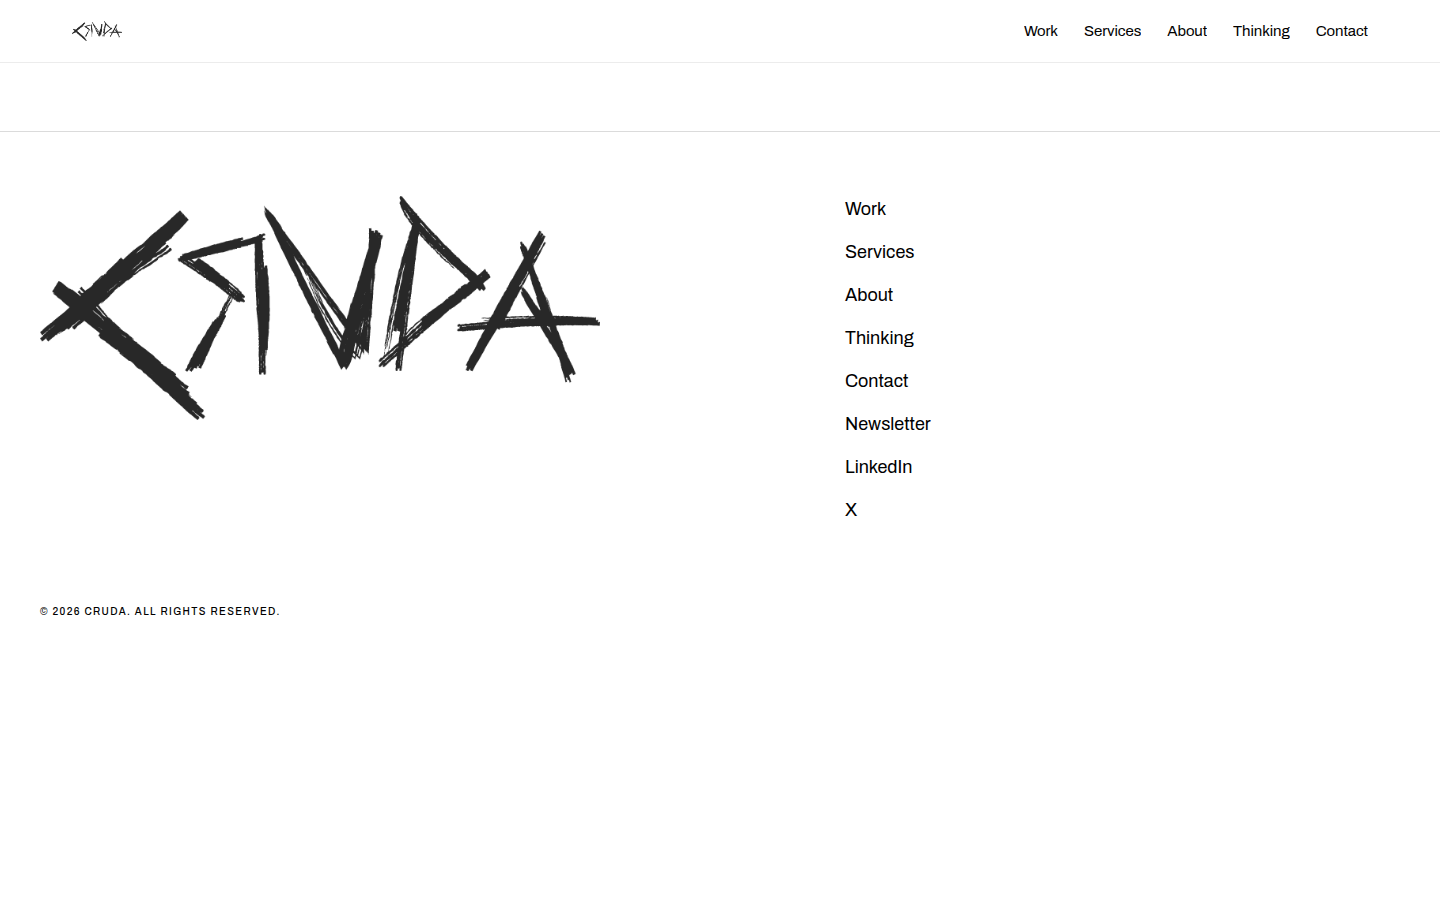
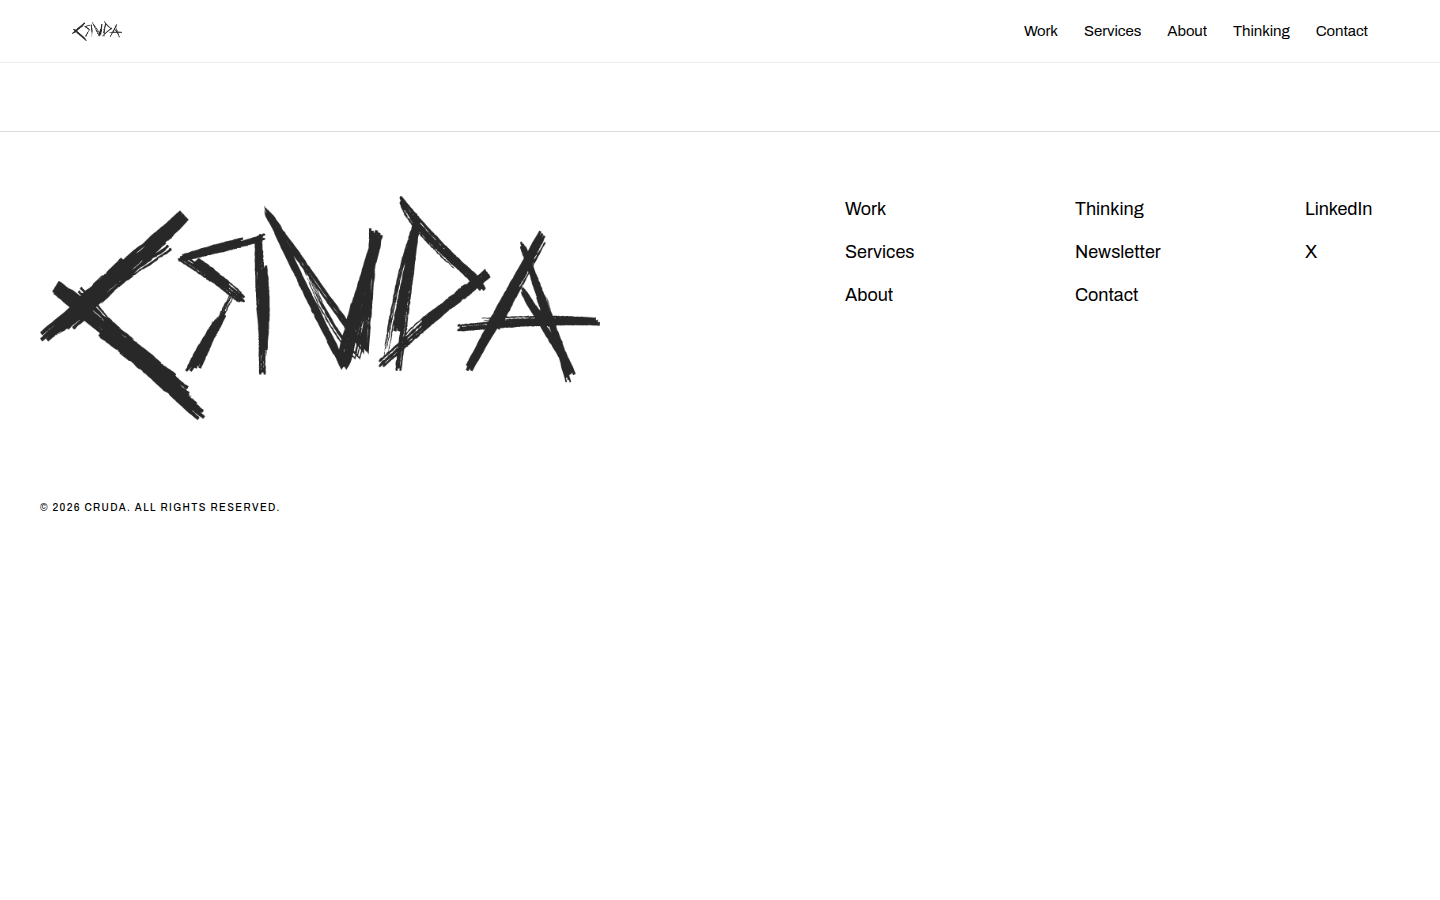
F23-1 v2 · footer 3 cols · nav sin transición · back restore
1 · Footer §2.5 v2
· 1440: logo a la izquierda, 3 columnas alineadas al top:
    Work · Services · About
    Thinking · Newsletter · Contact
    LinkedIn · X
  (SiteFooter.tsx · nav--1/2/3 con grid-row 1 + align-self start;
   wordmark también con grid-row 1.)
· 390: logo arriba, 2 columnas apiladas (Work Thinking / Services
  Newsletter / About Contact), LinkedIn · X en fila abajo, legal.
  Todos con grid-row auto en el @media (max-width: 900px).

2 · Nav sin franja gris
· Sacada la transition 260ms de background/color/border-color en
  .cruda-global-nav.bar (Nav.tsx). El paso paper ↔ dark ahora es
  instantáneo, sin estado intermedio gris. Fran F23.1 v2 §2 nota.
· Capturas nav-top / nav-scrolled en /, /services y
  /work/karen-mannheim, a 1440 y 390: nav paper es paper puro,
  nav dark es --ink puro.

3 · Botón atrás (Playwright test)
· PageShell: bug fix crítico · llamar startViewTransition sobre
  document directamente (no extraer a variable — pierde el `this`
  y tira).
· Restore de scroll con rAF loop que espera a que el documento
  llegue a la altura guardada antes de scrollTo. Cubre tanto
  popstate (client nav) como full-load con navigation.type
  'back_forward' (browser sin bfcache).
· Test Playwright · / → fila 2 SW → click José → goBack →
  captura. Log confirma: 1440 restauró 10562 (target 10561.7),
  390 restauró 9864 (target 9864.1). Sin loader en el back.

Capturas: nav (top + scrolled) × 3 páginas × 2 breakpoints ·
[…]

diff --git a/src/components/PageShell.tsx b/src/components/PageShell.tsx
@@ -87,13 +87,38 @@ export default function PageShell({ children }: { children: React.ReactNode }) {
 
   /* Popstate flag · marcamos el próximo pathname change como back
      button para que el useEffect de pathname restaure el scroll
-     guardado en vez de resetearlo a 0. */
+     guardado en vez de resetearlo a 0. También cubrimos el caso de
+     full-load con navigation.type === 'back_forward' (browser sin
+     bfcache que hace una navegación completa al volver): en ese
+     caso el layout re-monta y no hay popstate para escuchar. */
   useEffect(() => {
     if (typeof window === 'undefined') return
     function onPop() {
       isPop.current = true
     }
     window.addEventListener('popstate', onPop)
+    /* Full-load con back/forward · restauramos scroll de la ruta
+       actual desde sessionStorage, con el mismo rAF loop. */
+    const navEntry = performance.getEntriesByType('navigation')[0] as
+      | (PerformanceNavigationTiming & { type: string })
+      | undefined
+    if (navEntry && navEntry.type === 'back_forward') {
+      const y = getSavedScroll(window.location.pathname)
+      if (typeof y === 'number') {
+        let tries = 0
+        const attempt = () => {
+          if (tries++ > 120) return
+          const maxY =
+            document.documentElement.scrollHeight - window.innerHeight
+          if (maxY >= y) {
+            window.scrollTo(0, y)
+          } else {
+            window.requestAnimationFrame(attempt)
+          }
+        }
+        window.requestAnimationFrame(attempt)
+      }
+    }
     return () => window.removeEventListener('popstate', onPop)
   }, [])
 
@@ -134,10 +159,12 @@ export default function PageShell({ children }: { children: React.ReactNode }) {
            en Next SPA. Lo limpiamos para que RevealScroll re-mida
            en la ruta nueva. */
         delete document.documentElement.dataset.linesReady
-        const startVT = (document as unknown as {
+        /* Llamamos startViewTransition sobre el propio document
+           para preservar el `this`. Extraerla en una variable y
+           llamarla suelta rompe el binding y tira. */
+        const vt = (document as unknown as {
           startViewTransition: StartViewTransitionApi
-        }).startViewTransition
-        const vt = startVT(() => {
+        }).startViewTransition(() => {
           router.push(href)
         })
         if (vt.finished) {
@@ -167,9 +194,24 @@ export default function PageShell({ children }: { children: React.ReactNode }) {
       isPop.current = false
       const y = getSavedScroll(pathname)
       if (typeof y === 'number') {
-        /* Esperamos un tick para dejar que Next termine de pintar +
-           el apilado recalcule antes de restaurar. */
-        window.setTimeout(() => window.scrollTo(0, y), 0)
+        /* Esperamos a que el documento tenga altura suficiente
+           antes de restaurar. El apilado (PlanesStack) hace su
+           cálculo en useEffect al montar; hasta entonces la
+           altura total puede ser menor que la Y guardada. rAF loop
+           con tope ~1s para no colgar si la ruta no llega a esa
+           altura (ej. contenido cambió). */
+        let tries = 0
+        const attempt = () => {
+          if (tries++ > 60) return
+          const maxY =
+            document.documentElement.scrollHeight - window.innerHeight
+          if (maxY >= y) {
+            window.scrollTo(0, y)
+          } else {
+            window.requestAnimationFrame(attempt)
+          }
+        }
+        window.requestAnimationFrame(attempt)
       }
     }
   }, [pathname])

diff --git a/src/components/case-study.css b/src/components/case-study.css
@@ -444,6 +444,8 @@
 }
 .site-footer__wordmark {
   grid-column: 1 / span 6;
+  grid-row: 1;
+  align-self: start;
   color: var(--ink);
   line-height: 0;
 }
@@ -461,15 +463,20 @@
   margin-top: var(--space-5);
   min-height: 96px;                /* Reservado para block 6 (§4.8) */
 }
-/* F23.1 · un solo nav en el footer (§2.5). */
+/* F23.1 v2 · tres columnas en el footer (§2.5).
+   Col 1 (Work · Services · About)      → grid-column 8 / span 2
+   Col 2 (Thinking · Newsletter · …)     → grid-column 10 / span 2
+   Col 3 (LinkedIn · X)                  → grid-column 12 / span 1 */
 .site-footer__nav {
-  grid-column: 8 / span 5;
   display: flex;
   flex-direction: column;
   gap: var(--space-2);
   font-size: var(--text-body);
   align-self: start;
 }
+.site-footer__nav--1 { grid-column: 8 / span 2; grid-row: 1; }
+.site-footer__nav--2 { grid-column: 10 / span 2; grid-row: 1; }
+.site-footer__nav--3 { grid-column: 12 / span 1; grid-row: 1; }
 /* F23.1 · legal en Archivo, token de rótulo del sistema (10px · 500 ·
    .14em · uppercase). Sale IBM Plex Mono. */
 .site-footer__legal {
@@ -494,7 +501,21 @@
   .site-footer__grid { min-height: auto; }
   .site-footer__wordmark { grid-column: 1 / -1; }
   .site-footer__capture-slot { grid-column: 1 / -1; }
-  .site-footer__nav { grid-column: 1 / -1; }
+  /* F23.1 v2 · 390 · stack vertical (§2.5).
+     Row 1 · CRUDA logo, ancho completo.
+     Row 2 · Nav 1 (col 1) + Nav 2 (col 2), en fila.
+     Row 3 · LinkedIn · X en línea.
+     El grid-row: 1 de desktop se sobreescribe a `auto` acá para
+     que cada nav se apile en su propia fila. */
+  .site-footer__wordmark { grid-row: auto; }
+  .site-footer__nav--1 { grid-column: 1 / span 1; grid-row: auto; }
+  .site-footer__nav--2 { grid-column: 2 / span 1; grid-row: auto; }
+  .site-footer__nav--3 {
+    grid-column: 1 / -1;
+    grid-row: auto;
+    flex-direction: row;
+    gap: var(--space-4);
+  }
 }
 
 /* Root anchor (Parte 1.1). All rem-based sizes derive from this. */

diff --git a/src/components/SiteFooter.tsx b/src/components/SiteFooter.tsx
@@ -42,16 +42,23 @@ export default function SiteFooter() {
           </div>
         )}
 
-        {/* F23.1 · un solo orden (§2.5).
-              Work · Services · About · Thinking · Contact · Newsletter · LinkedIn · X
-            "Case studies" desaparece — Work la reemplaza. */}
-        <nav className="site-footer__nav" aria-label="Site">
+        {/* F23.1 v2 · tres columnas en 1440 (§2.5).
+              Col 1 · Work · Services · About
+              Col 2 · Thinking · Newsletter · Contact
+              Col 3 · LinkedIn · X
+            "Case studies" desaparece — Work la reemplaza.
+            En 390 stackean a 2 cols (case-study.css). */}
+        <nav className="site-footer__nav site-footer__nav--1" aria-label="Site">
           <Link href="/#selected-work" className="link">Work</Link>
           <Link href="/services" className="link">Services</Link>
           <Link href="/about" className="link">About</Link>
+        </nav>
+        <nav className="site-footer__nav site-footer__nav--2" aria-label="More">
           <Link href="/thinking" className="link">Thinking</Link>
-          <Link href="/contact" className="link">Contact</Link>
           <Link href="/newsletter" className="link">Newsletter</Link>
+          <Link href="/contact" className="link">Contact</Link>
+        </nav>
+        <nav className="site-footer__nav site-footer__nav--3" aria-label="Social">
           <a
             href="https://www.linkedin.com/company/thecrudaspace/"
             target="_blank"

diff --git a/src/components/Nav.tsx b/src/components/Nav.tsx
@@ -210,14 +210,13 @@ export default function Nav() {
           right: 0;
           z-index: 110;
           /* F18.6 · fondo OPACO según superficie; nunca transparente.
-             Hairline abajo · el contenido nunca se ve por debajo. */
+             Hairline abajo · el contenido nunca se ve por debajo.
+             F23.1 v2 · sin transición: el color de la barra cambia
+             junto con el logo, instantáneo. La transición de 260ms
+             anterior dejaba una franja gris en el paso paper ↔ dark. */
           background: var(--paper, #F1EFEB);
           color: var(--ink, #0D0D0D);
           border-bottom: 1px solid rgba(13, 13, 13, .08);
-          transition:
-            background 260ms cubic-bezier(.16,1,.3,1),
-            color 260ms cubic-bezier(.16,1,.3,1),
-            border-color 260ms cubic-bezier(.16,1,.3,1);
         }
         .cruda-global-nav.bar.bar--dark {
           background: var(--black, #000);
